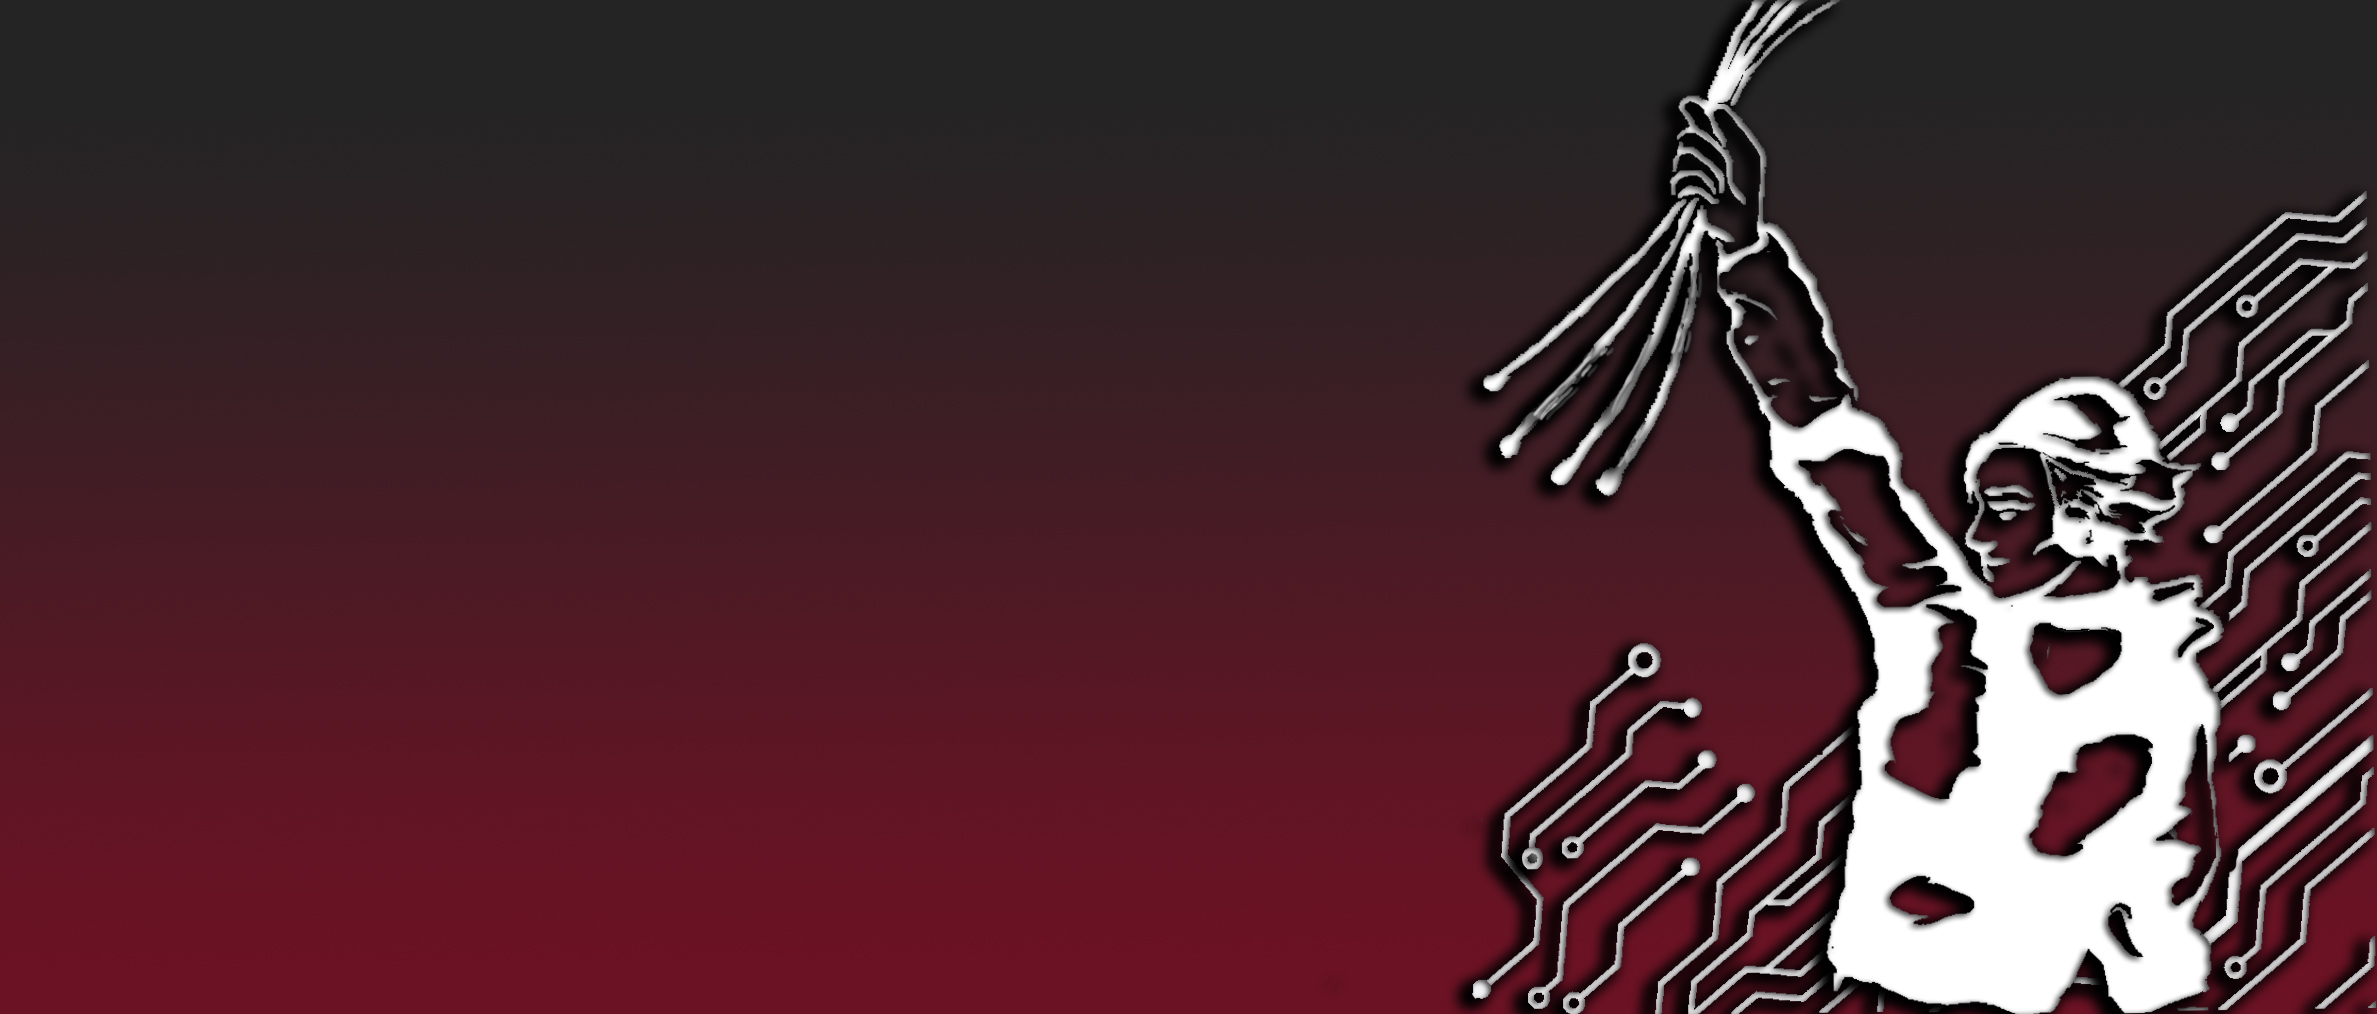
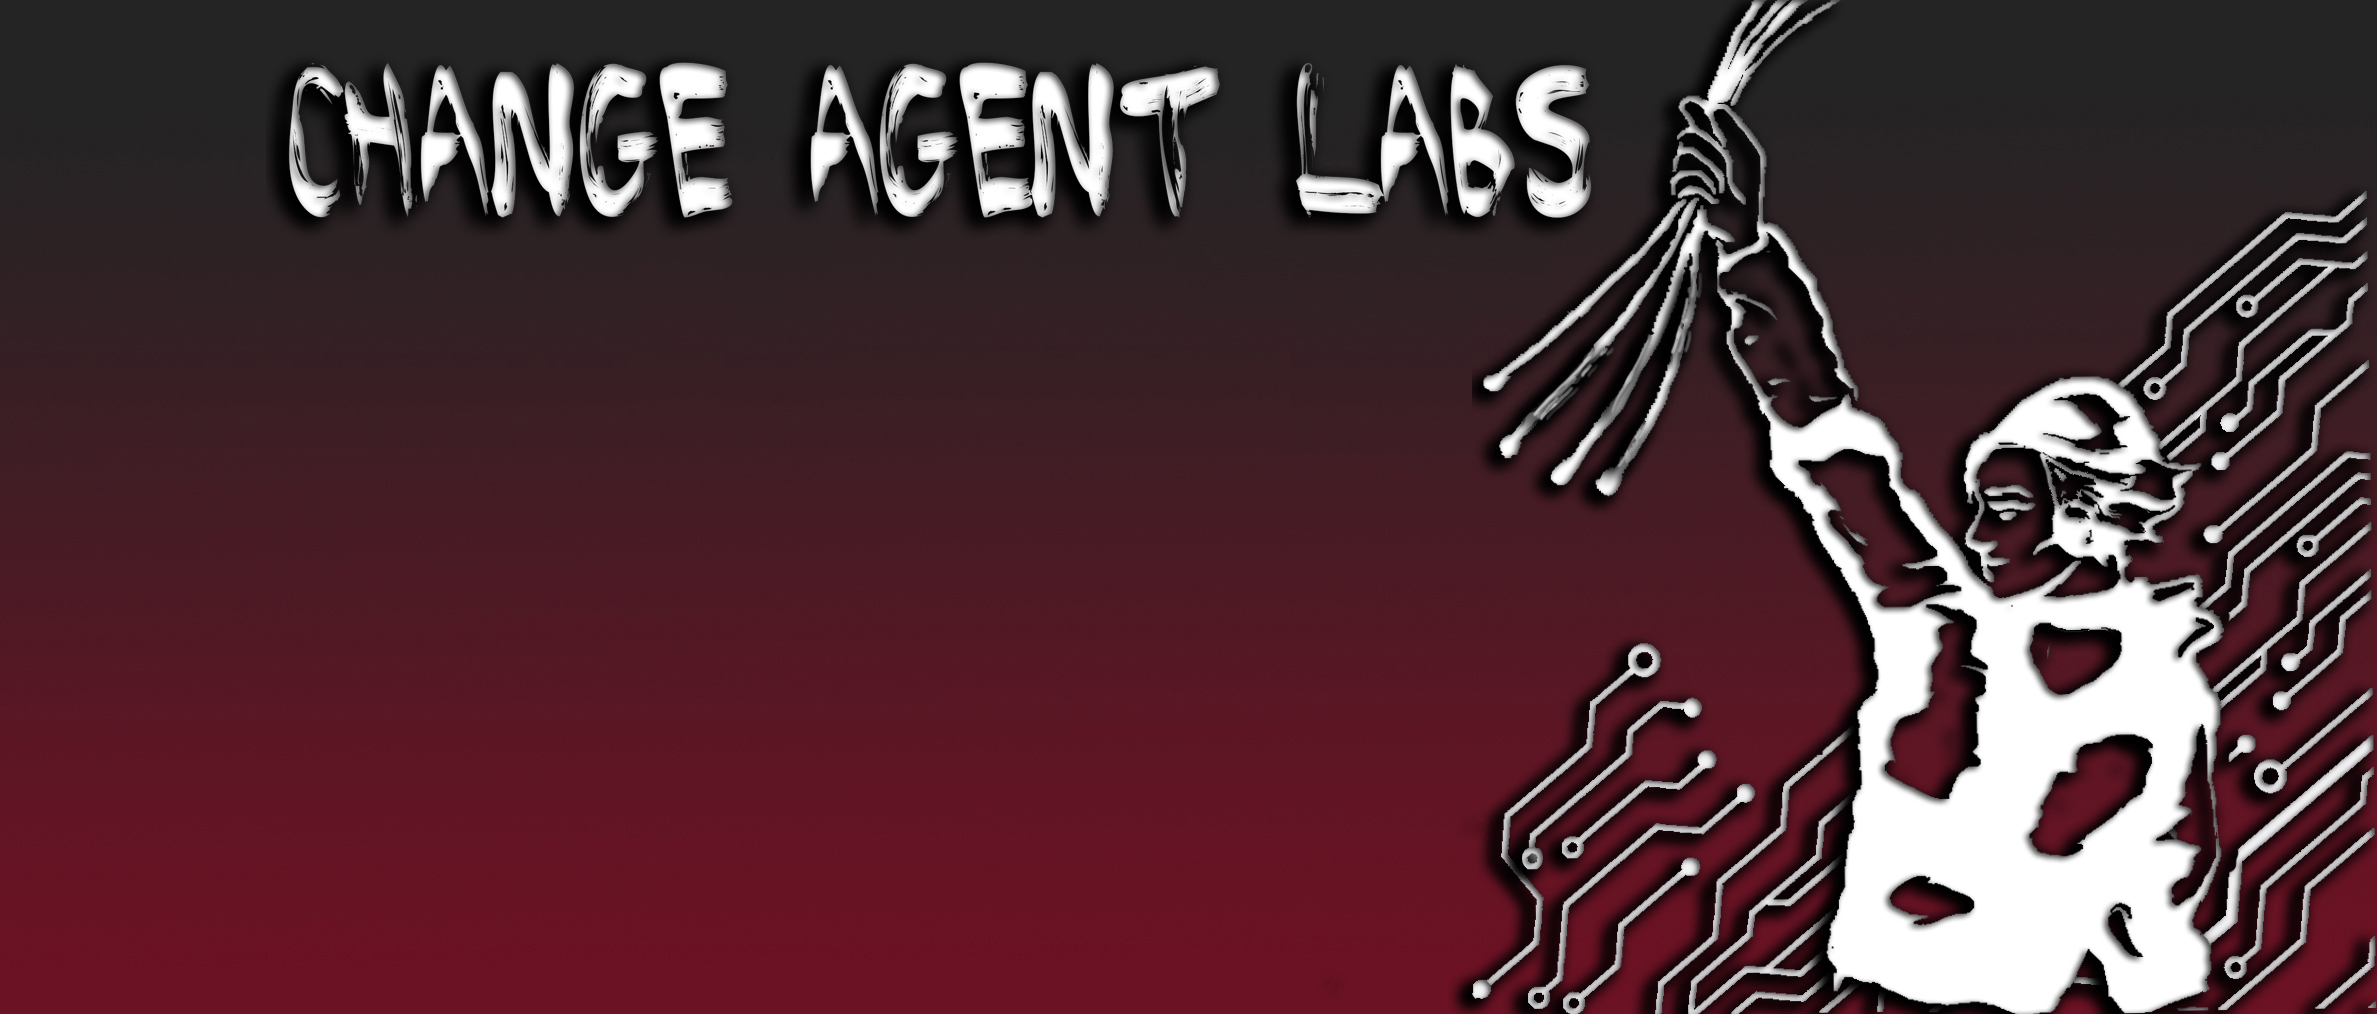
responsive hero

Changed region(s): [[0.0934, 0.0611, 0.6849, 0.2446]]

diff --git a/css/main.css b/css/main.css
@@ -116,10 +116,6 @@ header{
 	height: 1px;
 	z-index: 99;
 	background-color: #242424;
-	background-image: -moz-linear-gradient(bottom, #242424 0%, #242424 0.27%, #242424 99.46%, #242424 100%);
-	background-image: -o-linear-gradient(bottom, #242424 0%, #2424246 0.27%, #242424 99.46%, #242424 100%);
-	background-image: -webkit-linear-gradient(bottom, #242424 0%, #242424 0.27%, #242424 99.46%, #242424 100%);
-	background-image: linear-gradient(bottom, #242424 0%, #242424 0.27%, #242424 99.46%, #242424 100%);
 }
 
 header .logo{
@@ -875,8 +871,20 @@ footer .copyright a{
 
 
 	/*		Hero section 		*/
+	.hero {
+	display: block;
+	position: relative;
+	width: 100%;
+	height: 800px;
+	background: url('../img/hero2.jpg') no-repeat fixed left;	
+	background-size: cover;
+	background-position: left;
+	}
+	
+	
 	.hero .caption{
 		margin-left: 0;
+			width: 90%;
 	}
 
 	.app_store_btn{

diff --git a/index.html b/index.html
@@ -30,10 +30,7 @@
 	
 	<!--  Header Section  -->
 	<header>
-		<div class="container">
-			<div class="logo pull-left animated wow fadeInLeft">
-				<img src="img/solidarity.png" width="75%" alt="" title="">
-			</div>
+		
 
 			
 		<!--	<nav class="pull-left">
